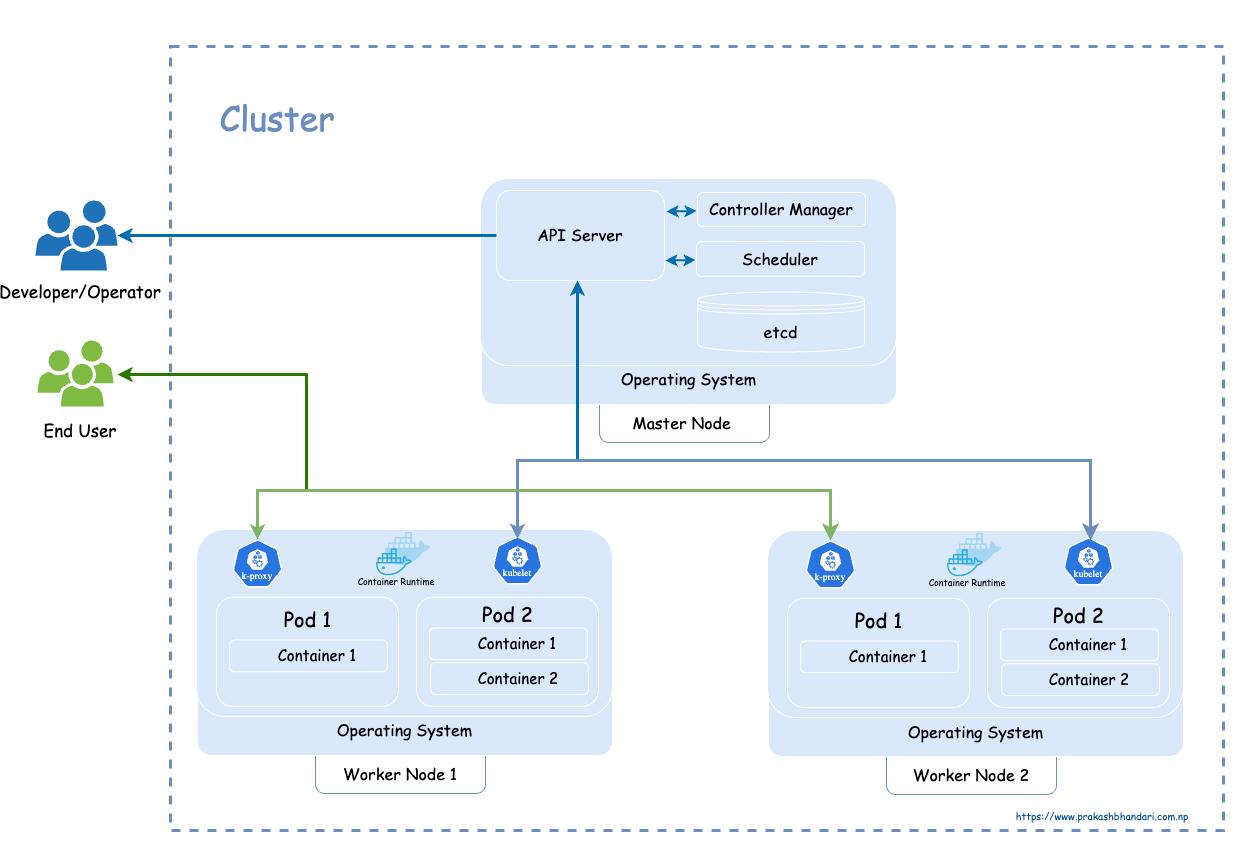
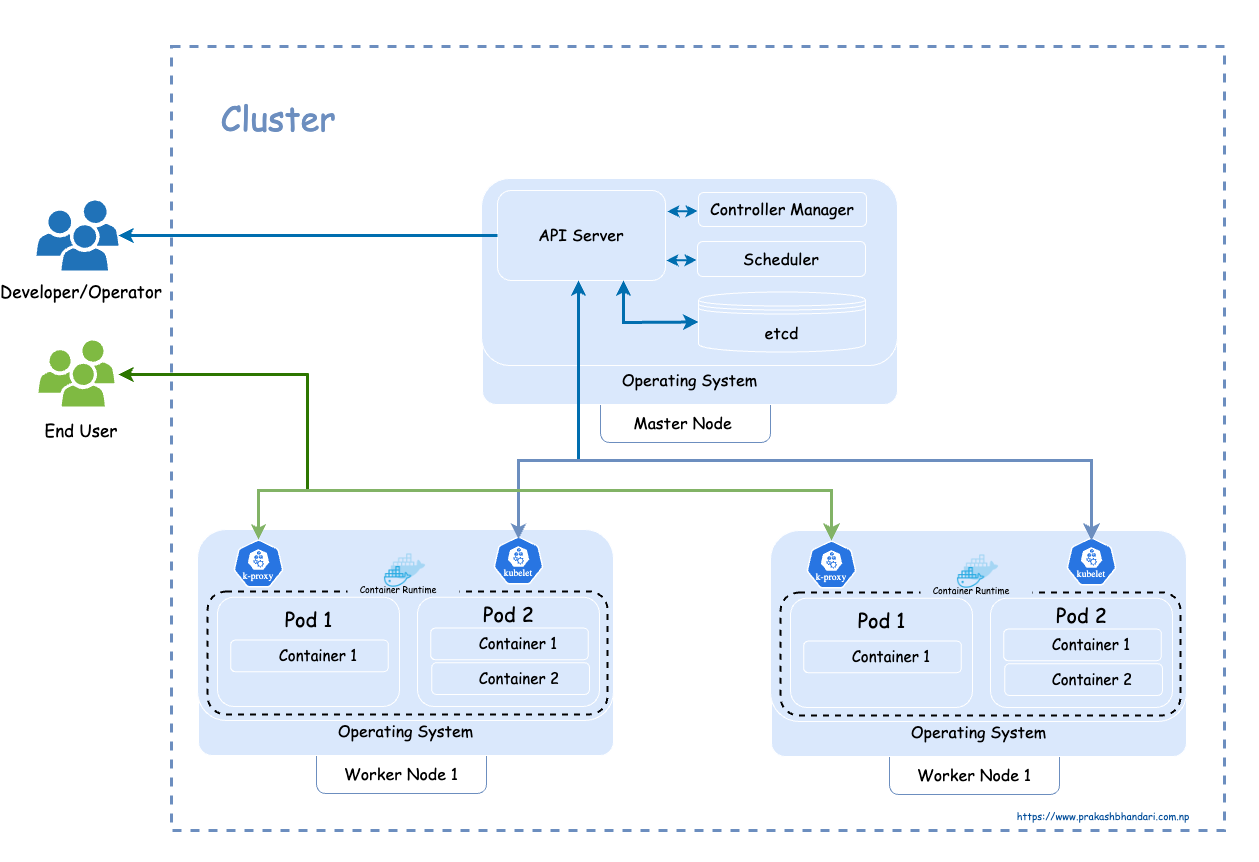
update documentation

diff --git a/content/posts/understanding-the-basic-concepts-of-kubernetes-cluster.md b/content/posts/understanding-the-basic-concepts-of-kubernetes-cluster.md
@@ -17,15 +17,18 @@ categories : [
 keywords: [
   "Understanding the Basic Concepts of Kubernetes(k8s) Cluster",
   "Basic Concepts of Kubernetes Cluster",
-  "Kubernetes cluster architecture", 
-  "Kubernetes master and worker nodes",
+  "Kubernetes for architecture",
+  "Components of Master node in Kubernetes",
+  "Components of Worker node in Kubernetes",
+  "Kubernetes Cluster Architecture", 
+  "Kubernetes Master and Worker nodes",
   "Understanding master and worker nodes in Kubernetes",
   "Kubernetes basic concepts", 
   "Understanding Kubernetes", 
   "Kubernetes for beginners",
   "beginners guide for Kubernetes(k8s) Cluster",
   "Kubernetes cluster components", 
-  "How Kubernetes works", 
+  "How Kubernetes works?", 
   "Introduction to Kubernetes"
 ]
 cover:
@@ -38,8 +41,11 @@ description: "As a beginner, understanding a Kubernetes (k8s) cluster might be a
 In this blog post, I will try to simplify the basic concepts  and components of a Kubernetes (k8s) cluster."
 ---
 
-Learning any new tool and technology starts withAs a beginner, understanding a Kubernetes (k8s) cluster might be a little bit complicated. If you go through the k8s official documentation its overwhelming 
-In this blog post, I will try to simplify the basic concepts and components of a Kubernetes (k8s) cluster. I will be covering the theoretical 
+As a beginner, understanding a Kubernetes (k8s) cluster might be a little bit complicated. If you go through the k8s official documentation its overwhelming.
+
+In my personal view, the best way to learn any new tool and technology is by understanding its core concepts and architecture.
+
+In this blog post, I will try to simplify the basic concepts and common components of a Kubernetes (k8s) cluster with simple architecture diagram. 
 
 # What is a Kubernetes Cluster?
 The simplest definition of a Kubernetes(k8s) cluster is a set of nodes that run containerized applications. Kubernetes cluster has two types on nodes
@@ -56,49 +62,89 @@ inside, while another one is running more two containers inside the pod.
 
 
 ## Master Node
-The master node is the control plane of Kubernetes which is responsible for controlling and managing a set of worker nodes globally within the cluster. 
-It maintains the overall state of the cluster, coordinating tasks such as scheduling applications and managing cluster-wide resources.
+The master node is the control plane of Kubernetes which is responsible for controlling and managing whole cluster. 
+It maintains the overall state of the cluster, coordinating tasks such as scheduling applications,and managing cluster-wide resources.
+
+For example, if one worker node fails, the master node moves the workload to another healthy worker node.
+
+And also master node exposes the API to the developer or operator via cli tool (kubectl) or UI.
+
+At least one master node is required in a Kubernetes (k8s) cluster, but in reality, 
+there can be more than one master node for high availability and fault tolerance.
+
 ### Master Components
-A master node has the following components to help manage worker nodes:
+When you install Kubernetes, the four components will be installed on the master node to manage and run the worker nodes.
+I have presented the below diagram for the key components of master node.
+![components of master node](/images/posts/understanding-the-basic-concepts-of-kubernetes-cluster/components-of-master-node.png#center)
 #### API Server
 
 The Kubernetes API server exposes the Kubernetes API to external users so that they can perform operations on the Kubernetes cluster. 
-The API server processes REST operations, validates them, and updates the corresponding objects in etcd.
+The API server processes REST operations, validates them, and updates the corresponding objects 
+such as pods, services, replication controller, and deployments in etcd.
+
+REST operations is done by using `cli` interface called `kubectl` (very small Go language binary) or UI interface.
+
+As for example to list the pods in Kubernetes we can run below `kubectl` command : 
+
+`kubectl get pods`
 
 #### Scheduler
-Scheduler is responsible to select the best node to run the pods. 
-Worker node is selected based on resource availability in the worker node.
+The scheduler is responsible for scheduling pods based on the configuration file. In the configuration file, you can define the number of CPU, memory, and other configurations. 
+Once we pass the configuration file to the API server, the scheduler selects the best worker node to run the pods, based on resource availability on the worker nodes.
 
 For example, let's say your cluster has two worker nodes: one with CPU utilization of 60% and another with CPU utilization of 30%. 
 The scheduler will select the worker node with 30% CPU utilization to run the newly created pod.
 #### Controller Manager
-t detects changes in the cluster state and tries to restore it as soon as possible. 
+The Controller Manager is responsible for the overall health of the entire cluster. 
+It ensures that worker nodes are up and running and that the correct number of pods are running. 
+It detects changes in the cluster state and attempts to restore it as soon as possible.
+
 For example, if a pod dies, it will detect the state change by reading the information stored in etcd and create a new pod as soon as possible.
+
 #### etcd
 
-etcd is the key-value store for cluster information such as its current state, desired state, configuration of resources, and runtime data, often referred to as the cluster's brain. 
-Kubernetes interacts with etcd through its API server.
+etcd is the central distributed database, it stores the cluster information in key-value store such as its current state, desired state, configuration of resources, and runtime data, often referred to as the cluster's brain. 
+Kubernetes interacts with etcd through its API server. It is the single source of truth for cluster information at any given point of time 
 
-## Worker/Slave Node
-A worker node, also known as a slave node, is the machine where applications run or where application pods run. 
-A single node can run more than one pod. 
-Every node should have installed  three software applications: Kubelet, Kube-proxy, and Container Runtime.
-### Node Components
-A worker/slave node has the following components:
+## Worker Node
+A worker node is a virtual/physical server in data center or virtual machine running in the cloud where containers are deployed. 
+The worker node is the machine where the actual user applications runs inside the pods.
+
+### Worker Node Components
+I have presented the below diagram for the key components of worker node.
+![components of master node](/images/posts/understanding-the-basic-concepts-of-kubernetes-cluster/components-of-worker-node.png#center)
+Every worker node has the following components:
 #### Kubelet
-The Kubelet is a software application that runs on each node in the cluster. 
-It interacts with both the node and the containers. 
-It's responsibilities include starting the pod with a container inside 
-and assigning resources such as CPU, memory, and storage from the node to the pod.
+The Kubelet is a primary node agent that runs on each worker node in the cluster.
+Its primary responsibility is to look at the spec submitted to the API server on the
+Kubernetes master and ensure that containers defined in 
+the submitted spec file are running inside pods and healthy. If the Kubelet notices any issues while running pods, it tries to restart the pod on the same node.
+
+If the issue is with the worker node itself, the Kubernetes 
+master detects it and selects another suitable worker node in the cluster to run the pods.
+
 #### Kube-proxy
-Kube-proxy is a network proxy that runs on each node in the cluster. 
-It is responsible for managing network connectivity and maintaining network rules across nodes, enabling communication to your pods from both inside and outside the cluster.
-Kube-proxy implements the Kubernetes Service concept across every node in the cluster.
+Kube-proxy is a network proxy that runs on each node in the cluster.
+It is responsible for managing network connectivity, maintaining network rules across all nodes, pods, and containers inside the cluster, and also exposing services to the outside world.
+Kube-proxy is the core network component for entire Kubernetes cluster.
+
 #### Container Runtime
 The container runtime is the software application which runes inside the every worker 
 node and is responsible for running containers. Kubernetes supports Docker, containerd, CRI-O, etc.
 
-This post explains the basic concepts of a Kubernetes (k8s) cluster with a Kubernetes architecture diagram,
+#### Pods
+A pod is one of the most used terms in Kubernetes (k8s). 
+It is the smallest unit of a k8s cluster that wraps the containers. 
+Each pod consists of one or more containers. 
+In most cases, one pod runs one container. 
+Sometimes, there are more than one dependent containers running together inside a single pod, where one container helps the other container complete the job.
+
+The simple relationship between a worker node, pod, and container:
+Inside a worker node, there is at least one pod, and inside a pod, there is at least one container.
+
+This post explains the basic concepts of a Kubernetes (k8s) cluster with a architecture diagram,
 highlighting the roles of master nodes and worker nodes, along with key components like the API server, 
 scheduler, controller manager, etcd, Kubelet, Kube-proxy, and container runtime.
+
+Hope this post helped you to understand the Kubernetes architecture and its key components.
 
